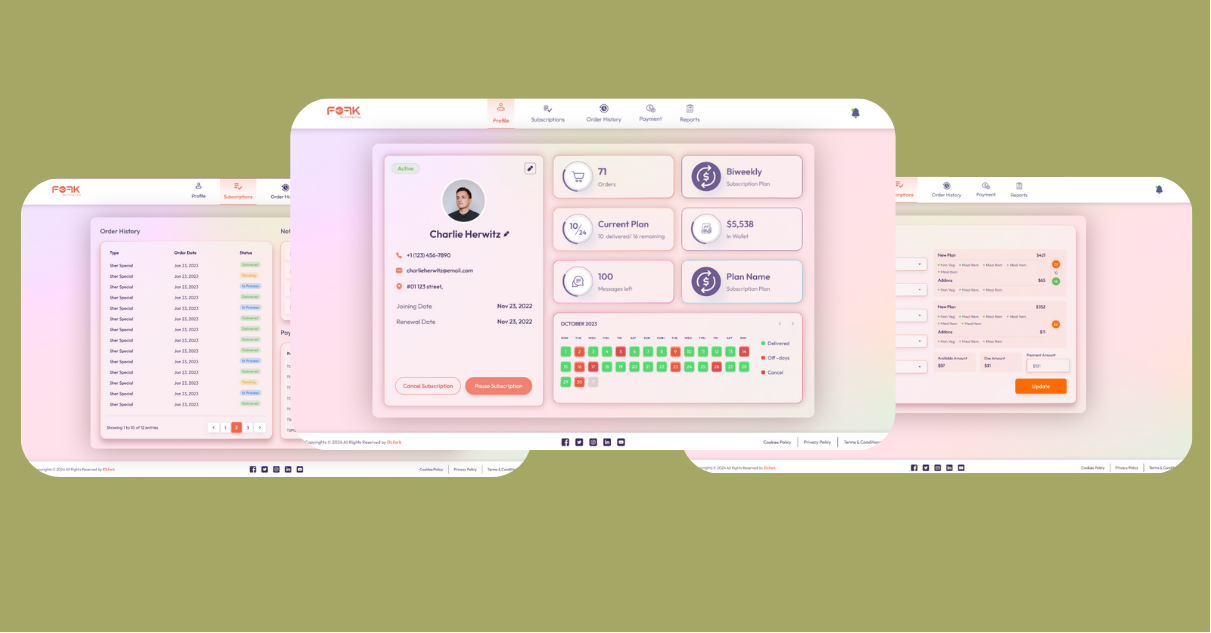
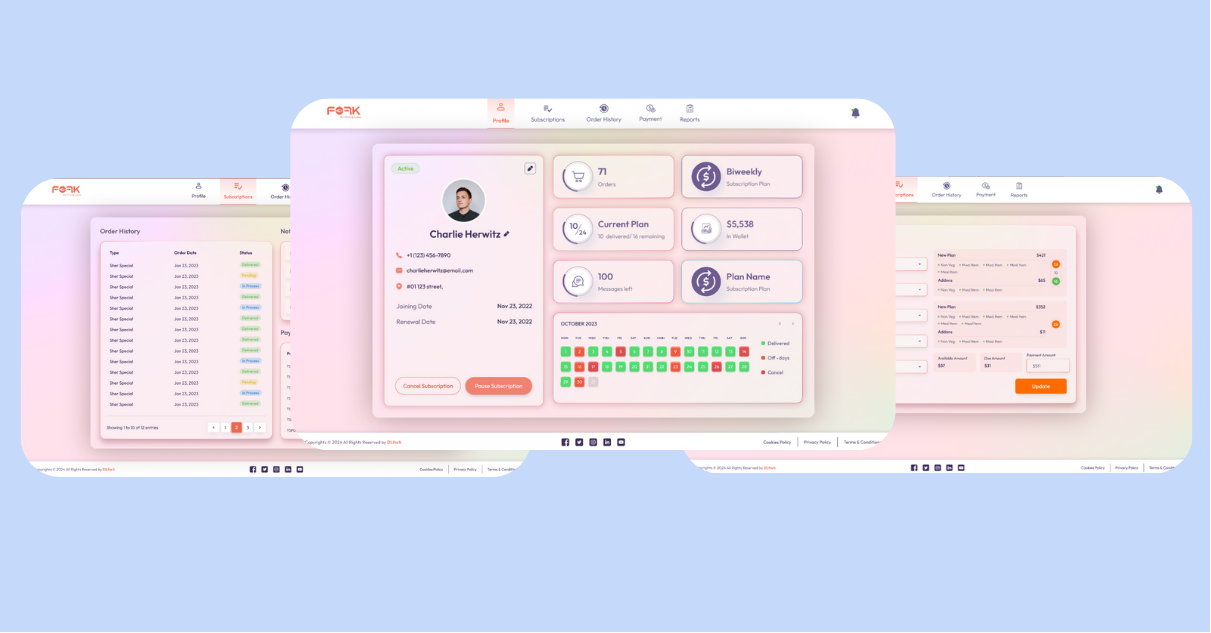
PW-8 Now colors are changed

diff --git a/src/app/components/HeroSection.jsx b/src/app/components/HeroSection.jsx
@@ -3,7 +3,7 @@ import { useEffect, useState } from "react";
 import Image from "next/image";
 import { TypeAnimation } from "react-type-animation";
 import { motion } from "framer-motion";
-import NavLink from "./NavLink";
+// import NavLink from "./NavLink";
 
 const HeroSection = () => {
   const [isMounted, setIsMounted] = useState(false);
@@ -49,8 +49,8 @@ const HeroSection = () => {
             <span
               className={`${
                 darkMode
-                  ? "text-transparent bg-clip-text bg-gradient-to-r from-orange-400 via-emerald-500 to-green-600"
-                  : "text-transparent bg-clip-text bg-gradient-to-r from-[#A5A765] to-black"
+                  ? "text-transparent bg-clip-text bg-gradient-to-r from-[#4b7bff] to-[#C5D9FA]"
+                  : "text-transparent bg-clip-text bg-gradient-to-r from-[#629bf7] to-black"
               }`}
             >
               Hello, I&apos;m <br />
@@ -67,14 +67,14 @@ const HeroSection = () => {
               wrapper="span"
               speed={30}
               repeat={Infinity}
-              className="text-[#dd9745]"
+              className="text-orange-300"
             />
           </h1>
           <p
             className={`${
               darkMode
-                ? "text-base sm:text-lg mb-6 lg:text-xl text-[#ADB7BE]"
-                : "text-base sm:text-lg mb-6 lg:text-xl text-[#5e5f3ba1]"
+                ? "text-base sm:text-lg mb-6 lg:text-xl text-[#c3d7fa80]"
+                : "text-base sm:text-lg mb-6 lg:text-xl text-[#436aa893]"
             }`}
           >
             Dynamic React Next.js portfolio featuring projects with polished
@@ -86,8 +86,8 @@ const HeroSection = () => {
               href="https://wa.me/923303210150"
               className={`${
                 darkMode
-                  ? "block sm:inline-block px-6 py-3 w-full sm:w-auto rounded-full bg-gradient-to-br from-orange-500 via-emerald-500 to-green-600 mr-4 hover:bg-gradient-to-br hover:from-green-500 hover:via-emerald-500 hover:to-orange-500 text-[#E3E3D7] hover:shadow-slate-500 shadow-2xl transition duration-500 ease-in-out"
-                  : "block sm:inline-block px-6 py-3 w-full sm:w-auto rounded-full bg-gradient-to-br from-[#A5A765] to-black mr-4 hover:bg-gradient-to-br hover:from-black hover:to-[#A5A765] text-[#E3E3D7] hover:shadow-black shadow-2xl transition duration-500 ease-in-out"
+                  ? "block sm:inline-block px-6 py-3 w-full sm:w-auto rounded-full bg-gradient-to-br from-[#4b7bff] to-[#C5D9FA] mr-4 hover:bg-gradient-to-br hover:from-[#C5D9FA] hover:to-[#4b7bff] text-black hover:shadow-slate-500 shadow-2xl transition duration-500 ease-in-out"
+                  : "block sm:inline-block px-6 py-3 w-full sm:w-auto rounded-full bg-gradient-to-br from-[#629bf7] to-black mr-4 hover:bg-gradient-to-br hover:from-black hover:to-[#629bf7] text-[#E3E3D7] hover:shadow-[#629bf7] shadow-2xl transition duration-500 ease-in-out"
               }`}
             >
               Hire Me
@@ -98,11 +98,11 @@ const HeroSection = () => {
               style={{ padding: "0.22rem 0.22rem" }} 
               className={`${
                 darkMode
-                  ? "group block sm:inline-block w-full sm:w-auto rounded-full bg-gradient-to-br from-orange-500 via-emerald-500 to-green-600 hover:bg-gradient-to-br hover:from-green-500 hover:via-emerald-500 hover:to-orange-500 text-[#E3E3D7] mt-3 hover:shadow-slate-500 shadow-2xl transition duration-500 ease-in-out"
-                  : "group block sm:inline-block w-full sm:w-auto rounded-full bg-[#848643] text-[#E3E3D7] mt-3 hover:shadow-black shadow-2xl transition duration-500 ease-in-out"
+                  ? "group block sm:inline-block w-full sm:w-auto rounded-full bg-gradient-to-br from-[#4b7bff] to-[#C5D9FA] hover:bg-gradient-to-br hover:from-[#C5D9FA] hover:to-[#4b7bff] text-[#E3E3D7] mt-3 hover:shadow-slate-500 shadow-2xl transition duration-500 ease-in-out"
+                  : "group block sm:inline-block w-full sm:w-auto rounded-full bg-[#365587] text-[#E3E3D7] mt-3 hover:shadow-[#629bf7] shadow-2xl transition duration-500 ease-in-out"
               }`}
             >
-              <span className="block px-2 py-2 w-full rounded-full bg-[#121212] group-hover:bg-slate-700 text-[#E3E3D7]">
+              <span className="block px-2 py-2 w-full rounded-full bg-slate-950 group-hover:bg-slate-800 text-[#E3E3D7]">
                 Download CV
               </span>
             </a>
@@ -115,8 +115,8 @@ const HeroSection = () => {
               alt="hero image"
               className={`${
                 darkMode
-                  ? "rounded-tl-full rounded-br-full rounded-tr-[40rem] rounded-bl-[40rem] shadow-[#C59A4B] shadow-2xl"
-                  : "rounded-tl-full rounded-br-full rounded-tr-[40rem] rounded-bl-[40rem] shadow-[#484925] shadow-2xl"
+                  ? "rounded-tl-full rounded-br-full rounded-tr-[40rem] rounded-bl-[40rem] shadow-[#C5D9FA] shadow-2xl"
+                  : "rounded-tl-full rounded-br-full rounded-tr-[40rem] rounded-bl-[40rem] shadow-[#629bf7] shadow-2xl"
               }`}
               priority={true}
               width={400}

diff --git a/src/app/components/EmailSection.jsx b/src/app/components/EmailSection.jsx
@@ -1,9 +1,9 @@
 import { useEffect, useState } from "react";
-import GithubIcon from "../../../public/svg/social/github3.svg";
+import GithubIcon from "../../../public/svg/social/githubDark.svg";
 import GithubIconLight from "../../../public/svg/social/githubLight.svg";
-import LinkedinIcon from "../../../public/svg/social/linkedin1.svg";
+import LinkedinIcon from "../../../public/svg/social/linkedinDark.svg";
 import LinkedinIconLight from "../../../public/svg/social/linkedinLight.svg";
-import WhatsappIcon from "../../../public/svg/social/whatsapp1.svg";
+import WhatsappIcon from "../../../public/svg/social/whatsappDark.svg";
 import WhatsappIconLIght from "../../../public/svg/social/whatsappLight.svg";
 import Image from "next/image";
 
@@ -29,12 +29,12 @@ const EmailSection = () => {
   }, []);
 
   const darkModeText = darkMode
-    ? "block mb-2 text-sm font-medium text-[#ADB7BE]"
-    : "block mb-2 text-sm font-medium text-[#928873]";
+    ? "block mb-2 text-sm font-medium text-[#c3d7fa80]"
+    : "block mb-2 text-sm font-medium text-[#436aa893]";
 
   const darkModeInput = darkMode
-    ? "bg-[#18191E] border border-[#33353F] placeholder:text-[#9CA2A9] text-gray-300 text-sm rounded-lg block w-full p-2.5"
-    : "bg-[#E3E3D7] border border-[#A5A764] placeholder:text-[#928873] text-gray-800 text-sm rounded-lg block w-full p-2.5";
+    ? "bg-[#141432] border border-[#c3d7fa80] placeholder:text-[#c3d7fa80] text-gray-300 text-sm rounded-lg block w-full p-2.5"
+    : "bg-[#C5D9FA] border border-[#436aa893] placeholder:text-[#436aa893] text-gray-800 text-sm rounded-lg block w-full p-2.5";
  
     // const svgDarkMode = darkMode
     // ? GithubIcon
@@ -47,16 +47,16 @@ const EmailSection = () => {
       <div
         className={`${
           darkMode
-            ? "bg-[radial-gradient(ellipse_at_center,_var(--tw-gradient-stops))] from-orange-900 to-transparent rounded-full h-80 w-80 z-0 blur-lg absolute top-3/4 -left-4 transform -translate-x-1/2 -translate-1/2"
-            : "bg-[radial-gradient(ellipse_at_center,_var(--tw-gradient-stops))] from-[#9EA157] to-transparent rounded-full h-80 w-80 z-0 blur-lg absolute top-3/4 -left-4 transform -translate-x-1/2 -translate-1/2"
+            ? " bg-[radial-gradient(ellipse_at_center,_var(--tw-gradient-stops))] from-[#4b7bff] to-transparent rounded-full h-80 w-80 z-0 blur-lg absolute top-3/4 -left-4 transform -translate-x-1/2 -translate-1/2"
+            : "bg-[radial-gradient(ellipse_at_center,_var(--tw-gradient-stops))] from-[#629bf7] to-transparent rounded-full h-80 w-80 z-0 blur-lg absolute top-3/4 -left-4 transform -translate-x-1/2 -translate-1/2"
         }`}
       ></div>
       <div className="z-10 ">
         <h5
           className={
             darkMode
-              ? "text-3xl font-extrabold mb-6 my-2 text-transparent bg-clip-text bg-gradient-to-r from-orange-400 via-emerald-500 to-green-600"
-              : "text-3xl font-extrabold mb-6 my-2 text-transparent bg-clip-text bg-gradient-to-r from-[#A5A765] to-black "
+              ? "text-3xl font-extrabold mb-6 my-2 text-transparent bg-clip-text bg-gradient-to-r from-[#4b7bff] to-[#C5D9FA]"
+              : "text-3xl font-extrabold mb-6 my-2 text-transparent bg-clip-text bg-gradient-to-r from-[#629bf7] to-black "
           }
         >
           Let&apos;s Connect
@@ -137,8 +137,8 @@ const EmailSection = () => {
           <button
             className={
               darkMode
-                ? "font-medium py-2.5 px-5 w-full rounded-lg bg-gradient-to-br from-orange-500 via-emerald-500 to-green-600 mr-4 bg-white hover:bg-gradient-to-br hover:from-green-500 hover:via-emerald-500 hover:to-orange-500 text-[#E3E3D7"
-                : "font-medium py-2.5 px-5 w-full rounded-lg bg-gradient-to-br from-[#A5A765] to-black  mr-4  hover:bg-gradient-to-br hover:from-black hover:to-[#A5A765] text-[#E3E3D7]"
+                ? "font-medium py-2.5 px-5 w-full rounded-lg bg-gradient-to-br from-[#4b7bff] to-[#C5D9FA] mr-4 bg-white hover:bg-gradient-to-br  hover:from-[#C5D9FA] hover:to-[#4b7bff] text-[#E3E3D7"
+                : "font-medium py-2.5 px-5 w-full rounded-lg bg-gradient-to-br from-[#629bf7] to-black  mr-4  hover:bg-gradient-to-br hover:from-black hover:to-[#629bf7] text-[#E3E3D7]"
             }
           >
             Send Message

diff --git a/src/app/components/ProjectCard.jsx b/src/app/components/ProjectCard.jsx
@@ -25,11 +25,11 @@ const ProjectCard = ({ imgUrl, title, description, gitUrl, previewUrl }) => {
   }, []);
 
   const darkStyle = darkMode
-    ? "w-14 h-14 border-2 relative rounded-full border-[#ADB7BE] hover:border-orange-500 group/link"
-    : "w-14 h-14 border-2 relative rounded-full border-[#93937d] hover:border-[#858709] group/link";
+    ? "w-14 h-14 border-2 relative rounded-full border-[#ADB7BE] hover:border-[#4b7bff] group/link"
+    : "w-14 h-14 border-2 relative rounded-full border-[#ADB7BE] hover:border-[#629bf7] group/link";
     const darkIcon = darkMode
-    ? "w-10 h-10 text-[#ADB7BE] cursor-pointer absolute top-1/2 left-1/2 transform -translate-x-1/2 -translate-y-1/2 group-hover/link:text-orange-500"
-    : "w-10 h-10 text-[#93937d] cursor-pointer absolute top-1/2 left-1/2 transform -translate-x-1/2 -translate-y-1/2 group-hover/link:text-[#858709]";
+    ? "w-10 h-10 text-[#ADB7BE] cursor-pointer absolute top-1/2 left-1/2 transform -translate-x-1/2 -translate-y-1/2 group-hover/link:text-[#4b7bff]"
+    : "w-10 h-10 text-[#ADB7BE] cursor-pointer absolute top-1/2 left-1/2 transform -translate-x-1/2 -translate-y-1/2 group-hover/link:text-[#629bf7]";
   return (
     <div>
       <div
@@ -52,17 +52,17 @@ const ProjectCard = ({ imgUrl, title, description, gitUrl, previewUrl }) => {
           </Link>
         </div>
       </div>
-      <div className={darkMode ? "rounded-b-xl mt-1 bg-[#181818] py-6 px-4 " : "rounded-b-xl mt-1 bg-[#E3E3D7] py-6 px-4 "}>
+      <div className={darkMode ? "rounded-b-xl mt-1 bg-[#252552] py-6 px-4 " : "rounded-b-xl mt-1 bg-[#9fc4ff] py-6 px-4 "}>
         <h5
-          className={`text-xl font-semibold mb-2 ${
+          className={`text-xl font-extrabold mb-2 ${
             darkMode
-              ? "text-transparent bg-clip-text bg-gradient-to-r from-emerald-500 via-orange-400 to-green-600"
-              : "text-transparent bg-clip-text bg-gradient-to-r from-[#5e5f3ba1] to-black"
+              ? "text-transparent bg-clip-text bg-gradient-to-r from-[#4b7bff] to-[#C5D9FA] "
+              : "text-transparent bg-clip-text bg-gradient-to-r from-[#629bf7] to-black"
           }`}
         >
           {title}
         </h5>
-        <p className={darkMode ? "text-[#ADB7BE]" : "text-[#928873]"}>{description}</p>
+        <p className={darkMode ? "text-[#c3d7fa80]" : "text-[#436aa893]"}>{description}</p>
       </div>
     </div>
   );

diff --git a/src/app/components/TabBtn.jsx b/src/app/components/TabBtn.jsx
@@ -23,14 +23,14 @@ const TabBtn = ({ active, selectTab, children }) => {
 
   // const dark = darkMode ? {buttonDark} : {buttonLight};
   const buttonDark = active
-    ? "text-transparent bg-clip-text  bg-gradient-to-r from-orange-400 via-emerald-500 to-green-600 border-b-2 border-orange-500 "
+    ? "text-transparent bg-clip-text  bg-gradient-to-r from-[#4b7bff] to-[#C5D9FA] border-b-2 border-[#4b7bff] "
     : "text-[#4f5457]";
   const buttonLight = active
-    ? "text-transparent bg-clip-text  bg-gradient-to-r from-[#A5A765] to-black border-b-2 border-[#A5A765] "
+    ? "text-transparent bg-clip-text  bg-gradient-to-r from-[#629bf7] to-black border-b-2 border-[#629bf7] "
     : "text-[#6a6b4f] ";
   const buttonhover = darkMode
-    ? "cursor-pointer mr-3 font-extrabold hover:text-transparent hover:bg-clip-text  hover:bg-gradient-to-r hover:from-orange-400 hover:via-emerald-500 hover:to-green-600 transition duration-500 ease-in-out"
-    : "cursor-pointer mr-3 font-extrabold hover:text-transparent hover:bg-clip-text  hover:bg-gradient-to-r hover:from-[#A5A765]  hover:to-black transition duration-500 ease-in-out";
+    ? "cursor-pointer mr-3 font-extrabold hover:text-transparent hover:bg-clip-text  hover:bg-gradient-to-r hover:from-[#4b7bff] hover:to-[#C5D9FA] transition duration-500 ease-in-out"
+    : "cursor-pointer mr-3 font-extrabold hover:text-transparent hover:bg-clip-text  hover:bg-gradient-to-r hover:from-[#629bf7]  hover:to-black transition duration-500 ease-in-out";
   return (
     <button onClick={selectTab}>
       <p className={`${buttonhover} ${darkMode ? buttonDark : buttonLight}`}>

diff --git a/src/app/components/NavBar.jsx b/src/app/components/NavBar.jsx
@@ -46,7 +46,7 @@ const NavBar = () => {
   }, []);
   return (
     <nav
-      style={{ backgroundColor: darkMode ? "#2b2929" : "#9EA157" }}
+      style={{ backgroundColor: darkMode ? "#141434" : "#C2D7FB " }}
       className="fixed top-0 left-0 right-0 z-20 opacity-90"
     >
       <div className="flex flex-wrap items-center justify-between mx-auto px-4 py-2">
@@ -73,14 +73,14 @@ const NavBar = () => {
             {!navbarOpen ? (
               <button
                 onClick={() => setNavbarOpen(true)}
-                className="flex items-center px-3 py-2 border rounded border-slate-200 hover:text-white hover:border-white text-slate-200"
+                className="flex items-center px-3 py-2 border rounded border-[#2E4873] hover:text-[#2e4873a6] hover:border-[#2e4873a6] text-[#2E4873]"
               >
                 <Bars3Icon className="h-5 w-5" />
               </button>
             ) : (
               <button
                 onClick={() => setNavbarOpen(false)}
-                className="flex items-center px-3 py-2 border rounded border-slate-200 hover:text-white hover:border-white text-slate-200"
+                className="flex items-center px-3 py-2 border rounded border-[#2E4873] hover:text-[#2e4873a6] hover:border-[#2e4873a6] text-[#2E4873]"
               >
                 <svg
                   xmlns="http://www.w3.org/2000/svg"

diff --git a/src/app/components/Footer.jsx b/src/app/components/Footer.jsx
@@ -25,8 +25,8 @@ const Footer = () => {
     <footer
       className={`${
         darkMode
-          ? "footer mt-[4.5rem] bg-[#292727] border z-10 border-t-[#33353F] border-l-transparent border-r-transparent border-b-transparent  text-white"
-          : "footer mt-[4.5rem] bg-[#A5A765] border z-10 border-t-[#33353F] border-l-transparent border-r-transparent border-b-transparent  text-white"
+          ? "footer mt-[4.5rem] bg-[#141432] border z-10 border-t-[#c3d7fa80] border-l-transparent border-r-transparent border-b-transparent  text-[#c3d7fa80]"
+          : "footer mt-[4.5rem] bg-[#C5D9FA] border z-10 border-t-[#436aa893] border-l-transparent border-r-transparent border-b-transparent  text-[#436aa893]"
       }}`}
     >
       <div className="container p-1 flex justify-between items-center">
@@ -39,7 +39,7 @@ const Footer = () => {
             height={40}
           />
         </span>
-        <p className={`${darkMode ? "text-slate-600" : "text-[#E3E3D7]"}`}>All Rights Reserved.</p>
+        <p className={`${darkMode ? "text-[#c3d7fa80]" : "text-[#436aa893]"}`}>All Rights Reserved.</p>
       </div>
     </footer>
   );

diff --git a/src/app/components/AboutSection.jsx b/src/app/components/AboutSection.jsx
@@ -34,7 +34,7 @@ const AboutSection = () => {
     };
   }, []);
 
-  const dark = darkMode ? 'text-[#ADB7BE]' : 'text-[#5e5f3ba1]';
+  const dark = darkMode ? 'text-[#c3d7fa80]' : 'text-[#436aa893]';
 
   const Tab_Data = [
     {
@@ -96,8 +96,8 @@ const AboutSection = () => {
         <div className="mt-4 md:mt-0 text-left flex flex-col h-full">
           <h2 className={`${
                 darkMode
-                  ? "mb-4 text-4xl sm:text-5xl lg:text-6xl font-bold text-transparent bg-clip-text bg-gradient-to-r from-orange-400 via-emerald-500 to-green-600"
-                  : "mb-4 text-4xl sm:text-5xl lg:text-6xl font-bold text-transparent bg-clip-text bg-gradient-to-r from-[#A5A765] to-black"
+                  ? "mb-4 text-4xl sm:text-5xl lg:text-6xl font-bold text-transparent bg-clip-text bg-gradient-to-r from-[#4b7bff] to-[#C5D9FA]"
+                  : "mb-4 text-4xl sm:text-5xl lg:text-6xl font-bold text-transparent bg-clip-text bg-gradient-to-r from-[#365587] to-black "
               }`}>
             About Me
           </h2>

diff --git a/src/app/components/ProjectTag.jsx b/src/app/components/ProjectTag.jsx
@@ -23,11 +23,11 @@ const ProjectTag = ({ name, onClick, isSelected }) => {
   }, []);
 
   const buttonDark = isSelected
-    ? "text-orange-500 border-orange-500"
-    : "text-slate-600 border-slate-600 hover:bg-slate-900";
+    ? "text-[#4b7bff] border-[#4b7bff] bg-[#C5D9FA]"
+    : "text-[#c3d7fa80] border-[#c3d7fa80] hover:bg-slate-900";
   const buttonLight = isSelected
-    ? "text-[#4f5457] border-[#4f5457] bg-[#A5A764]"
-    : "text-[#93937d] border-[#93937d] hover:bg-slate-500";
+    ? "text-[#365587] border-[#365587] bg-[#C5D9FA]"
+    : "text-[#436aa893] border-[#436aa893] hover:bg-slate-500 hover:text-[#293859] hover:border-[#293859]";
 
   return (
     <button

diff --git a/src/app/components/NavLink.jsx b/src/app/components/NavLink.jsx
@@ -24,8 +24,8 @@ const NavLink = ({ href, title }) => {
   }, []);
 
   const textStyle = darkMode
-    ? "text-[#dd9745] hover:text-[#85512e] text-lg font-bold transition duration-300 ease-in-out"
-    : "text-[#000000] hover:text-[#484933] text-lg font-bold transition duration-300 ease-in-out";
+    ? "text-[#6098F2] hover:text-[#A8C3FB] text-lg font-bold transition duration-300 ease-in-out"
+    : "text-[#2F4A76] hover:text-[#6098F2] text-lg font-bold transition duration-300 ease-in-out";
 
   return (
     <Link href={href} legacyBehavior>

diff --git a/src/app/page.js b/src/app/page.js
@@ -31,8 +31,8 @@ export default function Home() {
       <main
         className="flex min-h-screen flex-col bg-center bg-cover"
         style={{
-          backgroundColor: darkMode ? '#121212' : '#ebd7d6', 
-          backgroundImage: darkMode ? 'none' : 'url("/svg/layoutBg.jpg")', 
+          backgroundColor: darkMode ? '#0f0f23' : '#e3e8f2', 
+          // backgroundImage: darkMode ? 'url("/svg/starsIcon.svg")' : 'none', 
           transition: 'background-color 0.6s ease-in-out, background-image 0.6s ease-in-out',
         }}
       >

diff --git a/src/app/components/ProjectSection.jsx b/src/app/components/ProjectSection.jsx
@@ -75,8 +75,8 @@ const ProjectSection = () => {
   };
 
   const dark = darkMode
-    ? "text-transparent bg-clip-text bg-gradient-to-r from-emerald-500 via-orange-400 to-green-600"
-    : "text-transparent bg-clip-text bg-gradient-to-r from-[#A5A765] via-[#707145] to-black";
+    ? "text-transparent bg-clip-text bg-gradient-to-r from-[#4b7bff] to-[#C5D9FA]"
+    : "text-transparent bg-clip-text bg-gradient-to-r from-[#629bf7]  to-black";
 
   return (
     <section id="projects">
